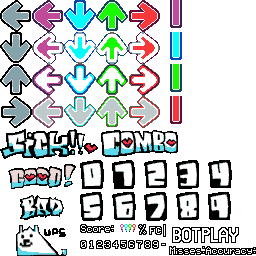
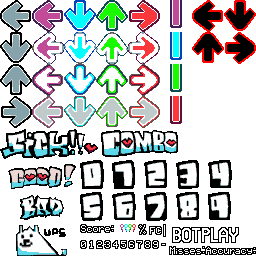
credits and menu broken

Changed region(s): [[0.75, 0.0, 1.0, 0.25]]

diff --git a/src/menu.c b/src/menu.c
@@ -80,7 +80,7 @@ static struct
 	//Menu state
 	u8 page, next_page;
 	boolean page_swap;
-	u8 select, next_select,skip_select;
+	u8 select, next_select,skip_selectup,skip_selectdown;
 	
 	fixed_t scroll;
 	fixed_t trans_time;
@@ -140,7 +140,7 @@ static struct
 	} page_param;
 	
 	//Menu assets
-	Gfx_Tex tex_back,tex_cooleffect, tex_ng, tex_story, tex_storybg, tex_title, tex_titlebg, tex_names;
+	Gfx_Tex tex_back,tex_cooleffect, tex_ng, tex_story, tex_storybg, tex_crediti, tex_title, tex_titlebg, tex_names;
 	FontData font_bold,font_arial;
 	
 	Character *playerm; //Title Girlfriend
@@ -221,6 +221,24 @@ static const char *Menu_LowerIf(const char *text, boolean lower)
 	return menu_text_buffer;
 }
 
+static void Credits_DrawImage(u8 i, s32 x,s32 y)
+{
+RECT src = {
+		(i % 4) * 64,
+	    (i / 4) * 64,
+	    64,
+		64,
+	};
+	RECT dst = {
+		x,
+		y,
+		16,
+		16,
+	};
+	
+	//Draw credit image
+	Gfx_DrawTex(&menu.tex_crediti, &src, &dst);
+}
 static void Menu_DrawBack(boolean flash, u8 r0, u8 g0, u8 b0, u8 r1, u8 g1, u8 b1)
 {
 	RECT back_src = {0, 0, 255, 255};
@@ -310,6 +328,7 @@ void Menu_Load(MenuPage page)
 	Gfx_LoadTex(&menu.tex_cooleffect,  Archive_Find(menu_arc, "coolfx.tim"),  0);
 	Gfx_LoadTex(&menu.tex_story, Archive_Find(menu_arc, "story.tim"), 0);
 	Gfx_LoadTex(&menu.tex_storybg, Archive_Find(menu_arc, "bgstory.tim"), 0);
+	Gfx_LoadTex(&menu.tex_crediti, Archive_Find(menu_arc, "crediti.tim"), 0);
 	Gfx_LoadTex(&menu.tex_title, Archive_Find(menu_arc, "title.tim"), 0);
 	Gfx_LoadTex(&menu.tex_titlebg, Archive_Find(menu_arc, "titlebg.tim"), 0);
 	Gfx_LoadTex(&menu.tex_names, Archive_Find(menu_arc, "boldfona.tim"), 0);
@@ -332,8 +351,7 @@ void Menu_Load(MenuPage page)
 	stage.camera.bzoom = FIXED_UNIT;
 	
 	//Initialize menu state
-	menu.select = menu.next_select = 0;
-	menu.skip_select = 0;
+	menu.select = menu.skip_selectup = menu.skip_selectdown = menu.next_select = 0;
 	
 	switch (menu.page = menu.next_page = page)
 	{
@@ -567,7 +585,7 @@ void Menu_Tick(void)
 			static const char *menu_options[] = {
 				"STORY MODE",
 				"FREEPLAY",
-				"MODS",
+				"CREDITS",
 				"OPTIONS",
 				#ifdef PSXF_NETWORK
 					"JOIN SERVER",
@@ -583,20 +601,6 @@ void Menu_Tick(void)
 				#else
 					FIXED_DEC(12,1);
 				#endif
-			
-			//Draw version identification
-			menu.font_bold.draw(&menu.font_bold,
-				"SKELEBROSPSX BY ",
-				16,
-				SCREEN_HEIGHT - 48,
-				FontAlign_Left
-			);
-			menu.font_bold.draw(&menu.font_bold,
-				"UNSTOPABLE AND IGORSOU",
-				16,
-				SCREEN_HEIGHT - 32,
-				FontAlign_Left
-			);
 			
 			//Handle option and selection
 			if (menu.trans_time > 0 && (menu.trans_time -= timer_dt) <= 0)
@@ -774,7 +778,7 @@ void Menu_Tick(void)
 			
 			if (menu.next_page == menu.page && Trans_Idle())
 			{
-				//Change option
+			/*	//Change option
 				if (pad_state.press & PAD_UP)
 				{
 					if (menu.select > 0)
@@ -789,6 +793,7 @@ void Menu_Tick(void)
 					else
 						menu.select = 0;
 				}
+				*/
 				
 				//Select option if cross is pressed
 				if (pad_state.press & (PAD_START | PAD_CROSS))
@@ -1019,24 +1024,53 @@ void Menu_Tick(void)
 		}
 		case MenuPage_Credits:
 		{
+			menu.skip_selectup = menu.select - 1;
+			menu.skip_selectdown = menu.select + 1;
 			static const struct
 			{
 				u32 col;
 				const char *text;
 				const char *text2;
 			} menu_options[] = {
-				//{StageId_4_4, 0xFFFC96D7, "TEST"},
 				{0xFF9271FD, "PORTED BY",NULL},
 				{0xFF9271FD, "UNSTOPABLE",  "SPRITES CODE OFFSETS"},
-				{0xFF9271FD, "IGORSOU3000", "SPRITES CODE OFFSETS"},
+				{0xFF9271FD, "IGORSOU", "SPRITES CODE OFFSETS"},
 				{0xFF9271FD, "",NULL},
-				{0xFF9271FD, "NO MORE DEALS",NULL},
-				{0xFF941653, "EEEECHROME",NULL},
-				{0xFF941653, "PARASITE SANS",NULL},
+				{0xFF9271FD, "SPECIAL THANKS",NULL},
+				{0xFF941653, "LUCKY","MISS AND ACCURATE CODE" },
+				{0xFF941653, "CUCKYDEV","MAKE THE PSXFUNKIN" },
+				{0xFF941653, "PSXFUNKIN DISCORD","DISCORD"},
+				{0xFF941653, "ZERIBEN","FRIEND"},
+				{0xFF941653, "LORD SCOUT", "FRIEND"},
+				{0xFF941653, "JOHN PAUL", "FRIEND"},
+				{0xFF9271FD, "",NULL},
+				{0xFF9271FD, "OG CREATORS",NULL},
+				{0xFF941653, "JLOOR","OWNER AND MAIN PROGRAMMER" },
+				{0xFF941653, "ZERO ARTIST","CO OWNER AND MAIN ARTIST" },
+				{0xFF941653, "JHAIX","MAIN MUSICIAN AND CHARTER"},
+				{0xFF941653, "ALEXR","MUSICIAN"},
+				{0xFF941653, "MANUX", "PROGRAMMER"},
+				{0xFF941653, "YIRIUS", "PROGRAMMER"},
+				{0xFF941653, "REWINDXA", "MAIN CHARTER"},
+				{0xFF9271FD, "",NULL},
+				{0xFF9271FD, "OG SPECIAL THANKS",NULL},
+				{0xFF941653, "JLOOR COMMUNITY","DISCORD SERVER" },
+				{0xFF941653, "CAPE FUNKIN","CHARTER OF NO MORE DEAL" },
+				{0xFF941653, "ZETAE","HELPED IN PAPY BG"},
+				{0xFF941653, "SOYJULIAN","HELPED IN SANS BG"},
+				{0xFF941653, "JKL", "FRIEND"},
+				{0xFF941653, "MIGUEL EXTREME STUDIOS", "FRIEND"},
+				{0xFF941653, "ELNELSON", "FRIEND"},
+				{0xFF941653, "SEREBEAT", "BF REANIMATED"},
+				{0xFF9271FD, "",NULL},
+				{0xFF9271FD, "OG SONGS",NULL},
+				{0xFF941653, "BENLAB CRIMSON","COMPOSER OF NO MORE DEAL" },
+				{0xFF941653, "MIDEAR","COMPOSER OF BONELY ONE" },
 			};
-
-			FntPrint("select %d", menu.select);
-			FntPrint("sselect %d", menu.skip_select);
+            //debug thing
+			//FntPrint("select %d", menu.select);
+			//FntPrint("sselectup %d", menu.skip_selectup);
+			//FntPrint("sselectdown %d", menu.skip_selectdown);
 			
 			//Initialize page
 			if (menu.page_swap)
@@ -1055,14 +1089,19 @@ void Menu_Tick(void)
 				//Change option
 				if (pad_state.press & PAD_UP)
 				{
-					if (menu.select > 0)
-						menu.select -= 1;
+					//thanks stackoverflow for exist
+					if (strcmp(menu_options[menu.skip_selectup].text,"") == 0)
+                        menu.select -= 2;
+					else if (menu.select > 0)
+						menu.select--;
 					else
 						menu.select = COUNT_OF(menu_options) - 1;
 				}
 				if (pad_state.press & PAD_DOWN)
 				{
-					if (menu.select < COUNT_OF(menu_options) - 1)
+					if (strcmp(menu_options[menu.skip_selectdown].text,"") == 0)
+					    menu.select += 2;
+					else if (menu.select < COUNT_OF(menu_options) - 1)
 						menu.select++;
 					else
 						menu.select = 0;
@@ -1072,7 +1111,7 @@ void Menu_Tick(void)
 				if (pad_state.press & PAD_CIRCLE)
 				{
 					menu.next_page = MenuPage_Main;
-					menu.next_select = 1; //Freeplay
+					menu.next_select = 2; //Credits
 					Trans_Start();
 				}
 			}
@@ -1080,7 +1119,7 @@ void Menu_Tick(void)
 			        menu.font_bold.draw(&menu.font_bold,
 					Menu_LowerIf(menu_options[menu.select].text2, false),
 					160,
-					SCREEN_HEIGHT2 - 100,
+					SCREEN_HEIGHT2 - 110,
 					FontAlign_Center
 			);
 			
@@ -1096,7 +1135,9 @@ void Menu_Tick(void)
 					continue;
 				if (y >= SCREEN_HEIGHT2 + 8)
 					break;
-				
+				//Draw credits image
+				Credits_DrawImage(i, 240, SCREEN_HEIGHT2 + y - 8);
+
 				//Draw text
 				menu.font_bold.draw(&menu.font_bold,
 					Menu_LowerIf(menu_options[i].text, menu.select != i),
